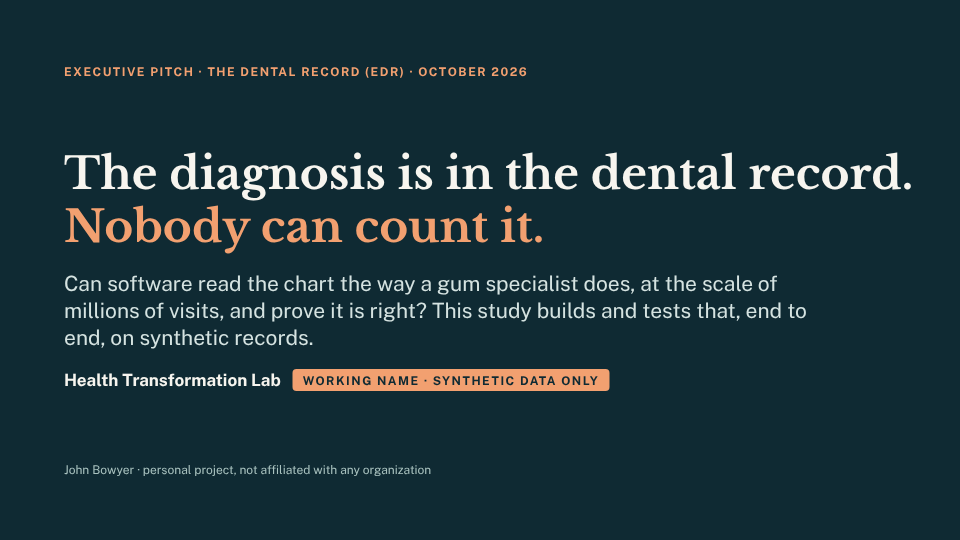
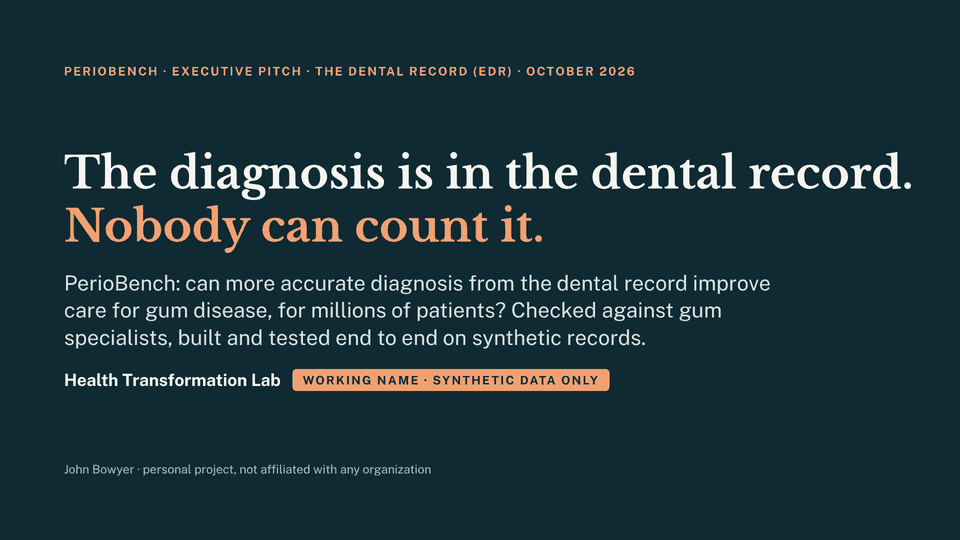
PerioBench deck: lead with better gum-disease care (#162)
* PerioBench deck: lead with better gum-disease care

The cover asked whether software can read the chart the way a gum
specialist does. The goal is better care for people with periodontitis
through more accurate diagnosis; agreement with specialists is how the
accuracy is checked. Name the deck PerioBench and rebuild the cover
image the landing page uses.

Claude-Session: https://claude.ai/code/session_01MiKEPdbCV5VvKfqBjsweCK

* Review PR 162

Claude-Session: https://claude.ai/code/session_01MiKEPdbCV5VvKfqBjsweCK

---------

diff --git a/docs/edr/deck.html b/docs/edr/deck.html
@@ -1,4 +1,4 @@
-<!doctype html><html lang="en"><head><meta charset="utf-8"><meta name="viewport" content="width=device-width,initial-scale=1"><title>Health Transformation Lab: the dental record (EDR) study, executive pitch</title><link rel="stylesheet" href="https://fonts.googleapis.com/css2?family=Libre+Baskerville:wght@400;700&display=swap"><link rel="stylesheet" href="https://fonts.googleapis.com/css2?family=Public+Sans:wght@400..700&display=swap"><link rel="stylesheet" href="https://fonts.googleapis.com/css2?family=Caveat:wght@500..700&display=swap">
+<!doctype html><html lang="en"><head><meta charset="utf-8"><meta name="viewport" content="width=device-width,initial-scale=1"><title>Health Transformation Lab: PerioBench, the dental record (EDR) study, executive pitch</title><link rel="stylesheet" href="https://fonts.googleapis.com/css2?family=Libre+Baskerville:wght@400;700&display=swap"><link rel="stylesheet" href="https://fonts.googleapis.com/css2?family=Public+Sans:wght@400..700&display=swap"><link rel="stylesheet" href="https://fonts.googleapis.com/css2?family=Caveat:wght@500..700&display=swap">
 <style>body{margin:0;background:#2b2b2b;font-family:Arial,sans-serif}*{box-sizing:border-box;margin:0}
 .wrap{width:min(96vw,1280px);aspect-ratio:16/9;margin:24px auto 0;overflow:hidden;position:relative}
 .frame{width:1920px;height:1080px;transform-origin:0 0;position:absolute}.frame>section{width:1920px;height:1080px;position:relative}
@@ -7,13 +7,13 @@
 td,th{padding:12px 16px;border-bottom:1px solid #D9D3C4}ul{padding-left:1.2em}</style></head><body>
 <p class="disclaimer">A personal idea, not affiliated with or endorsed by any organization. Synthetic data only: results are scored against the generator's truth, not clinical performance, and costs use illustrative prices.</p>
 <div class="wrap"><div class="frame"><section id="cover" data-transition="fade" style="background:#0F2A33;color:#F7F5EF;font-family:'Public Sans', Arial, sans-serif;padding:128px;display:flex;flex-direction:column;justify-content:space-between">
-<p style="font-size:24px;font-weight:700;letter-spacing:3px;text-transform:uppercase;color:#F2A070">Executive pitch · the dental record (EDR) · October 2026</p>
+<p style="font-size:24px;font-weight:700;letter-spacing:3px;text-transform:uppercase;color:#F2A070">PerioBench · executive pitch · the dental record (EDR) · October 2026</p>
 <div style="display:flex;flex-direction:column;gap:36px;align-items:flex-start">
 <div style="display:flex;flex-direction:column;gap:8px">
 <h1 style="font-family:'Libre Baskerville', Georgia, serif;font-size:88px;font-weight:700;line-height:1.12;white-space:nowrap">The diagnosis is in the dental record.</h1>
 <h1 style="font-family:'Libre Baskerville', Georgia, serif;font-size:88px;font-weight:700;line-height:1.12;white-space:nowrap;color:#F2A070">Nobody can count it.</h1>
 </div>
-<p style="font-size:42px;line-height:1.3;color:#D5E3E1;width:1500px">Can software read the chart the way a gum specialist does, at the scale of millions of visits, and prove it is right? This study builds and tests that, end to end, on synthetic records.</p>
+<p style="font-size:42px;line-height:1.3;color:#D5E3E1;width:1500px">PerioBench: can more accurate diagnosis from the dental record improve care for gum disease, for millions of patients? Checked against gum specialists, built and tested end to end on synthetic records.</p>
 <div style="display:flex;gap:24px;align-items:center">
 <p style="font-size:34px;font-weight:700;color:#F7F5EF">Health Transformation Lab</p>
 <p style="font-size:24px;font-weight:700;letter-spacing:3px;text-transform:uppercase;color:#0F2A33;background:#F2A070;border-radius:8px;padding:8px 20px">Working name · synthetic data only</p>
@@ -21,7 +21,7 @@ td,th{padding:12px 16px;border-bottom:1px solid #D9D3C4}ul{padding-left:1.2em}</
 </div>
 <p style="font-size:24px;color:#A9C2BF">John Bowyer · personal project, not affiliated with any organization</p>
 </section>
-</div></div><div class="notes"><b>Slide 1 notes:</b> Gum disease is one of the most common chronic diseases in adults, and it is written down at almost every dental visit. But it is written down in pieces: a checkbox here, a billing code there, measurements, and a free-text note. Nobody can count it across clinics, so nobody can study it at scale, link it to diabetes, or see whether care is working. This study asks one question: can software read the dental record the way a gum specialist does, and can we prove it is right? Everything shown is on synthetic records, built so the right answer is known; it is a rehearsal of the real study, not a result on real patients. This is a personal project, not any organization's plan.</div>
+</div></div><div class="notes"><b>Slide 1 notes:</b> Gum disease is one of the most common chronic diseases in adults, and it is written down at almost every dental visit. But it is written down in pieces: a checkbox here, a billing code there, measurements, and a free-text note. Nobody can count it across clinics, so nobody can study it at scale, link it to diabetes, or see whether care is working. PerioBench asks one question: can a more accurate diagnosis from the dental record improve care for people with gum disease, so it is found earlier, treated, followed over time and managed alongside diabetes? Agreement with gum specialists is how we check the diagnosis is accurate; better patient care is the goal. Everything shown is on synthetic records, built so the right answer is known; it is a rehearsal of the real study, not a result on real patients. This is a personal project, not any organization's plan.</div>
 <div class="wrap"><div class="frame"><section id="problem" data-transition="fade" style="background:#F7F5EF;color:#15303A;font-family:'Public Sans', Arial, sans-serif;padding:128px 128px 160px;display:flex;flex-direction:column;gap:36px">
 <div style="display:flex;flex-direction:column;gap:16px">
 <p style="font-size:24px;font-weight:700;letter-spacing:3px;text-transform:uppercase;color:#B4501F">The problem</p>

diff --git a/docs/edr/slides/01-cover.html b/docs/edr/slides/01-cover.html
@@ -1,16 +1,16 @@
 <section id="cover" data-transition="fade" style="background:#0F2A33;color:#F7F5EF;font-family:'Public Sans', Arial, sans-serif;padding:128px;display:flex;flex-direction:column;justify-content:space-between">
-<p style="font-size:24px;font-weight:700;letter-spacing:3px;text-transform:uppercase;color:#F2A070">Executive pitch · the dental record (EDR) · October 2026</p>
+<p style="font-size:24px;font-weight:700;letter-spacing:3px;text-transform:uppercase;color:#F2A070">PerioBench · executive pitch · the dental record (EDR) · October 2026</p>
 <div style="display:flex;flex-direction:column;gap:36px;align-items:flex-start">
 <div style="display:flex;flex-direction:column;gap:8px">
 <h1 style="font-family:'Libre Baskerville', Georgia, serif;font-size:88px;font-weight:700;line-height:1.12;white-space:nowrap">The diagnosis is in the dental record.</h1>
 <h1 style="font-family:'Libre Baskerville', Georgia, serif;font-size:88px;font-weight:700;line-height:1.12;white-space:nowrap;color:#F2A070">Nobody can count it.</h1>
 </div>
-<p style="font-size:42px;line-height:1.3;color:#D5E3E1;width:1500px">Can software read the chart the way a gum specialist does, at the scale of millions of visits, and prove it is right? This study builds and tests that, end to end, on synthetic records.</p>
+<p style="font-size:42px;line-height:1.3;color:#D5E3E1;width:1500px">PerioBench: can more accurate diagnosis from the dental record improve care for gum disease, for millions of patients? Checked against gum specialists, built and tested end to end on synthetic records.</p>
 <div style="display:flex;gap:24px;align-items:center">
 <p style="font-size:34px;font-weight:700;color:#F7F5EF">Health Transformation Lab</p>
 <p style="font-size:24px;font-weight:700;letter-spacing:3px;text-transform:uppercase;color:#0F2A33;background:#F2A070;border-radius:8px;padding:8px 20px">Working name · synthetic data only</p>
 </div>
 </div>
 <p style="font-size:24px;color:#A9C2BF">John Bowyer · personal project, not affiliated with any organization</p>
-<aside>Gum disease is one of the most common chronic diseases in adults, and it is written down at almost every dental visit. But it is written down in pieces: a checkbox here, a billing code there, measurements, and a free-text note. Nobody can count it across clinics, so nobody can study it at scale, link it to diabetes, or see whether care is working. This study asks one question: can software read the dental record the way a gum specialist does, and can we prove it is right? Everything shown is on synthetic records, built so the right answer is known; it is a rehearsal of the real study, not a result on real patients. This is a personal project, not any organization's plan.</aside>
+<aside>Gum disease is one of the most common chronic diseases in adults, and it is written down at almost every dental visit. But it is written down in pieces: a checkbox here, a billing code there, measurements, and a free-text note. Nobody can count it across clinics, so nobody can study it at scale, link it to diabetes, or see whether care is working. PerioBench asks one question: can a more accurate diagnosis from the dental record improve care for people with gum disease, so it is found earlier, treated, followed over time and managed alongside diabetes? Agreement with gum specialists is how we check the diagnosis is accurate; better patient care is the goal. Everything shown is on synthetic records, built so the right answer is known; it is a rehearsal of the real study, not a result on real patients. This is a personal project, not any organization's plan.</aside>
 </section>

diff --git a/docs/build_decks.py b/docs/build_decks.py
@@ -17,7 +17,7 @@ PERSONAL = "A personal idea, not affiliated with or endorsed by any organization
 DECKS = {
     "pitch": ("Health Transformation Lab: Shark Tank pitch",
               f'{PERSONAL} Figures are cited on each slide; nothing marked "to measure" has been measured.'),
-    "edr": ("Health Transformation Lab: the dental record (EDR) study, executive pitch",
+    "edr": ("Health Transformation Lab: PerioBench, the dental record (EDR) study, executive pitch",
             (f"{PERSONAL} Synthetic data only: results are scored against the generator's truth, not clinical "
              "performance, and costs use illustrative prices.")),
 }

diff --git a/docs/edr/full_text_and_notes.md b/docs/edr/full_text_and_notes.md
@@ -1,17 +1,17 @@
-# Health Transformation Lab: the dental record (EDR) study, executive pitch: full text and notes
+# Health Transformation Lab: PerioBench, the dental record (EDR) study, executive pitch: full text and notes
 A personal idea, not affiliated with or endorsed by any organization. Built from `slides/` by `docs/build_decks.py`; edit the slides, then rebuild.
 
 ## Slide 1 — cover
 
-Executive pitch · the dental record (EDR) · October 2026
+PerioBench · executive pitch · the dental record (EDR) · October 2026
 The diagnosis is in the dental record.
 Nobody can count it.
-Can software read the chart the way a gum specialist does, at the scale of millions of visits, and prove it is right? This study builds and tests that, end to end, on synthetic records.
+PerioBench: can more accurate diagnosis from the dental record improve care for gum disease, for millions of patients? Checked against gum specialists, built and tested end to end on synthetic records.
 Health Transformation Lab
 Working name · synthetic data only
 John Bowyer · personal project, not affiliated with any organization
 
-**Speaker notes:** Gum disease is one of the most common chronic diseases in adults, and it is written down at almost every dental visit. But it is written down in pieces: a checkbox here, a billing code there, measurements, and a free-text note. Nobody can count it across clinics, so nobody can study it at scale, link it to diabetes, or see whether care is working. This study asks one question: can software read the dental record the way a gum specialist does, and can we prove it is right? Everything shown is on synthetic records, built so the right answer is known; it is a rehearsal of the real study, not a result on real patients. This is a personal project, not any organization's plan.
+**Speaker notes:** Gum disease is one of the most common chronic diseases in adults, and it is written down at almost every dental visit. But it is written down in pieces: a checkbox here, a billing code there, measurements, and a free-text note. Nobody can count it across clinics, so nobody can study it at scale, link it to diabetes, or see whether care is working. PerioBench asks one question: can a more accurate diagnosis from the dental record improve care for people with gum disease, so it is found earlier, treated, followed over time and managed alongside diabetes? Agreement with gum specialists is how we check the diagnosis is accurate; better patient care is the goal. Everything shown is on synthetic records, built so the right answer is known; it is a rehearsal of the real study, not a result on real patients. This is a personal project, not any organization's plan.
 
 ## Slide 2 — problem
 

diff --git a/pull_requests/pr-162-review.md b/pull_requests/pr-162-review.md
@@ -1,0 +1,41 @@
+---
+pr: 162
+branch: docs/161-periobench-deck-outcome
+title: "PerioBench deck: lead with better gum-disease care"
+author: jcbowyer
+reviewed_at: 2026-10-28
+reviewer: coordinator (docs-only, one slide; no subagent needed)
+verdict: approve
+---
+
+# PR Review: PerioBench deck: lead with better gum-disease care
+
+## Summary
+This PR rewords the PerioBench deck's cover slide and its speaker notes around better care for people with
+periodontitis through more accurate diagnosis. Agreement with gum specialists is described as how accuracy is
+checked, not the goal. The deck title in `docs/build_decks.py` now names PerioBench. The two decks and the
+landing cover image are rebuilt. Verdict: approve.
+
+## Scope of Change
+- Files changed: 6 (docs and the deck builder's title string)
+- Areas touched: docs/edr, docs/img, docs/build_decks.py, pull_requests
+- Commits:
+  - 2d8535b PerioBench deck: lead with better gum-disease care
+- Range reviewed: `origin/main..2d8535b`
+
+## Rubric
+- Synthetic only, no PHI: yes. The cover still says synthetic records.
+- Simulated output labelled: no new figures.
+- Org names: `test_no_org_references` passes.
+- Generated files match their sources: `deck.html` and `full_text_and_notes.md` are rebuilt by `build_decks.py`.
+- Python/R parity: not affected.
+
+## CI Status
+| Check | Status |
+|---|---|
+| check (branch and issue) | pending |
+| python, r-parity | skipped (docs only); `test_decks` and `test_no_org_references`: 8 passed locally |
+
+## Findings
+None blocking. The cover PNG is a rendered screenshot that no script rebuilds. If the cover changes again, it has
+to be re-rendered by hand, as it was here.
